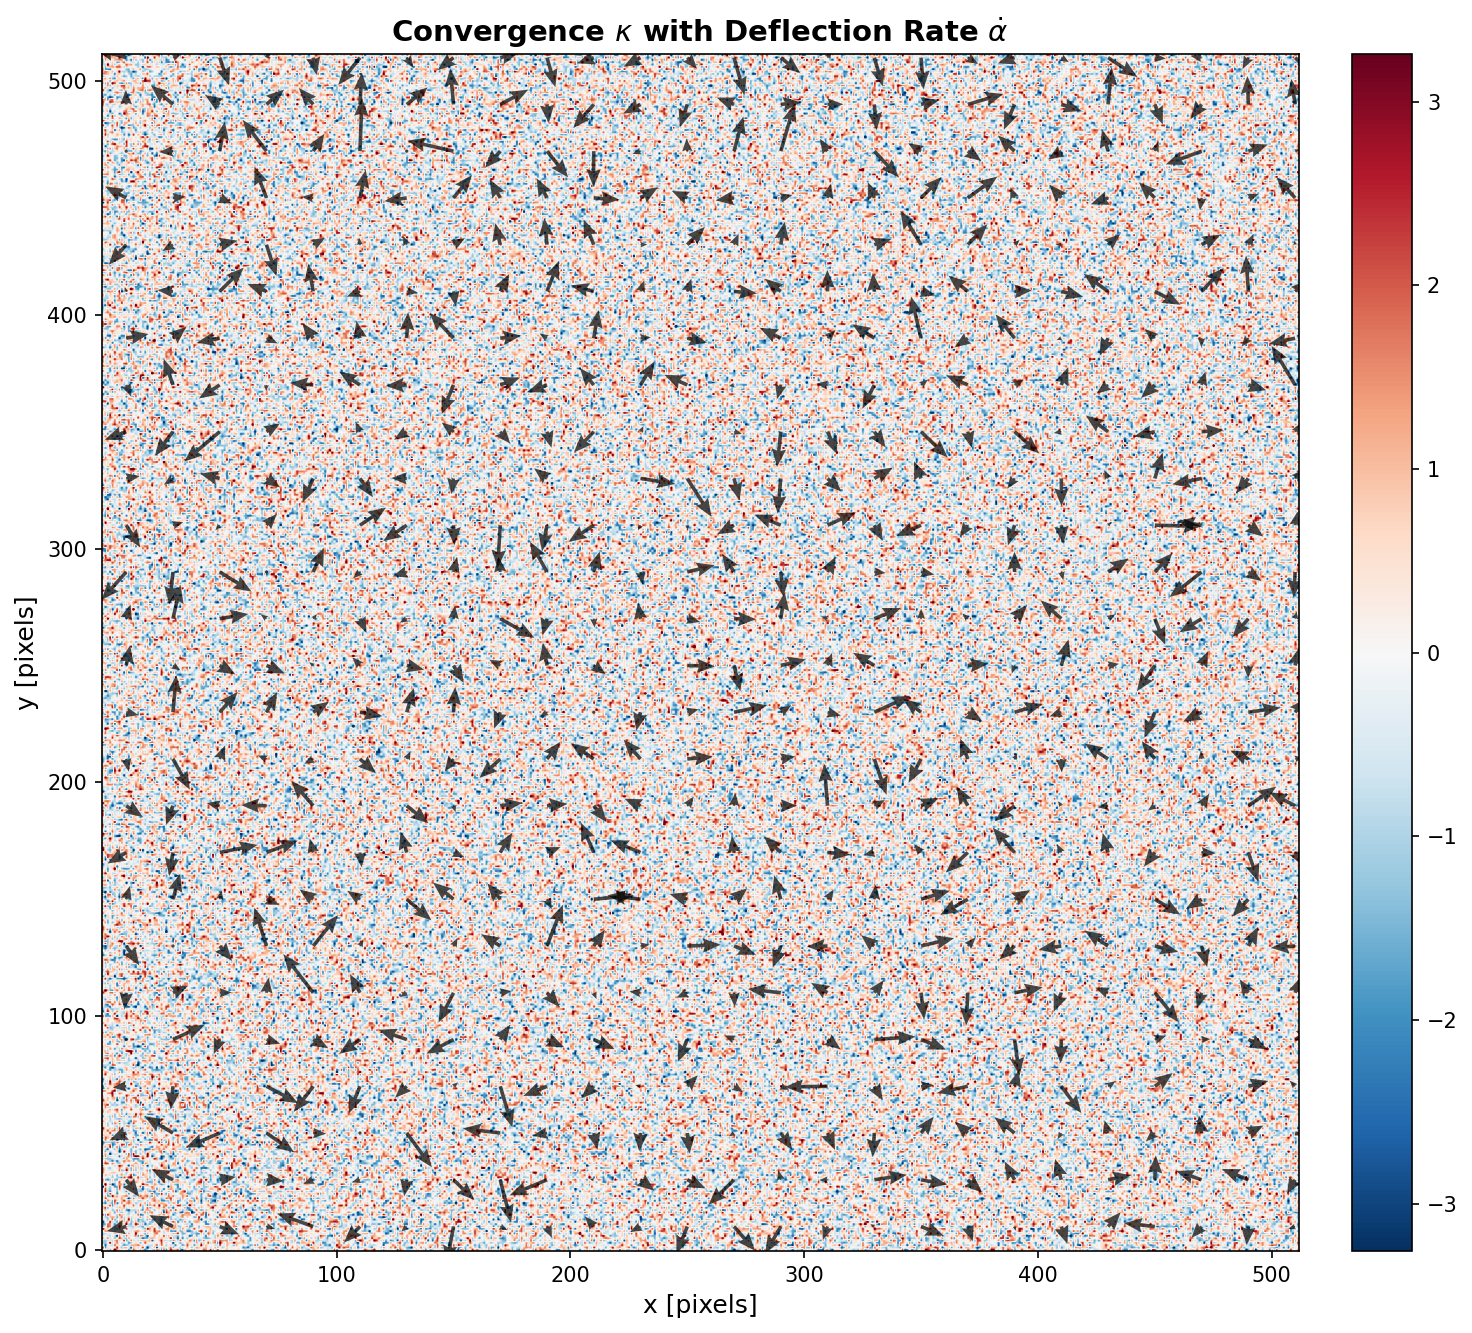
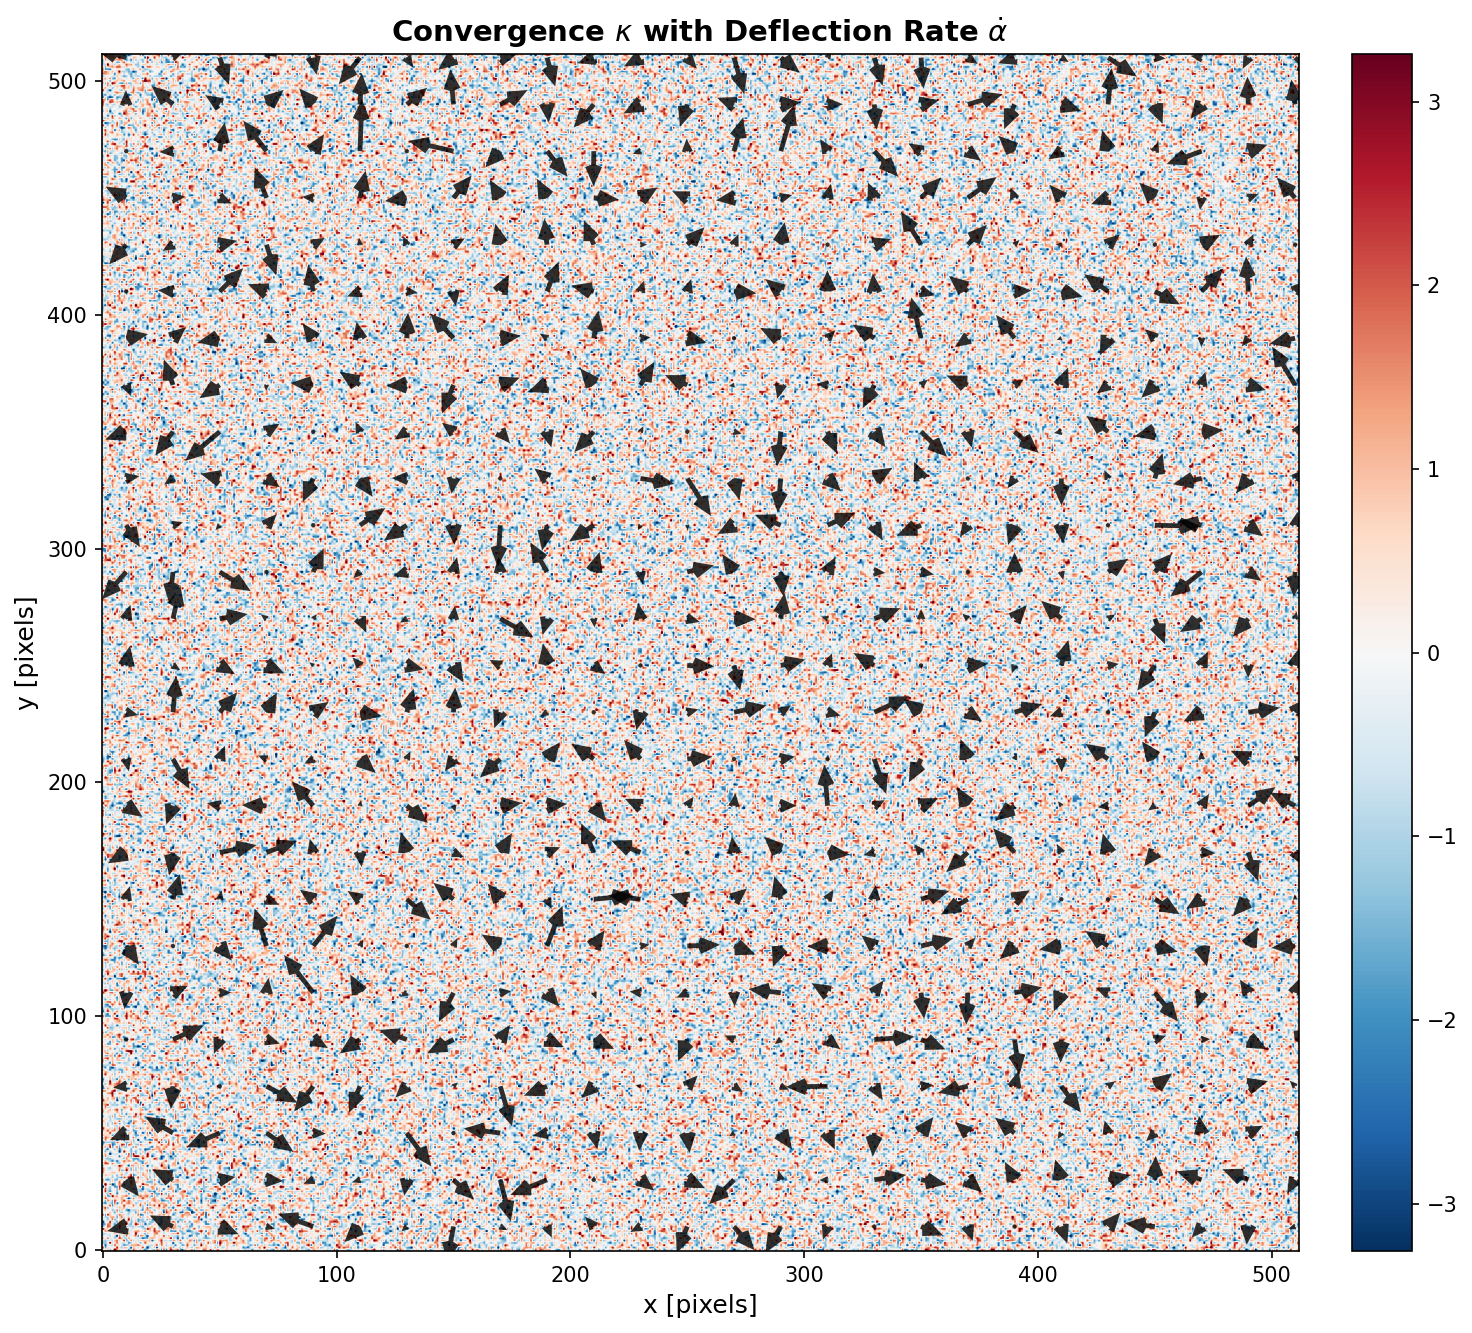
Improve vector field visualization with zoom
- Add zoomed view centered on strongest κ feature
- Better arrow scaling and spacing
- 128×128 pixel zoom region with denser arrows

diff --git a/plot_field_with_vectors.py b/plot_field_with_vectors.py
@@ -8,12 +8,27 @@ Usage:
 
 import numpy as np
 import matplotlib.pyplot as plt
+from scipy.ndimage import gaussian_filter
 import sys
 from pathlib import Path
 
 
+def find_peak_region(field, size=128):
+    """Find center of strongest peak for zoom."""
+    # Smooth to find large-scale peak
+    smoothed = gaussian_filter(np.abs(field), sigma=size//4)
+    iy, ix = np.unravel_index(np.argmax(smoothed), smoothed.shape)
+    # Keep within bounds
+    half = size // 2
+    ny, nx = field.shape
+    ix = np.clip(ix, half, nx - half)
+    iy = np.clip(iy, half, ny - half)
+    return ix, iy
+
+
 def plot_field_with_vectors(scalar_field, vx, vy, title, output_path,
-                            cmap='RdBu_r', arrow_step=25, dpi=150):
+                            cmap='RdBu_r', arrow_step=25, dpi=150,
+                            zoom_center=None, zoom_size=None):
     """
     Plot a scalar field with vector arrows overlaid.
 
@@ -33,8 +48,21 @@ def plot_field_with_vectors(scalar_field, vx, vy, title, output_path,
         Subsample arrows every N pixels
     dpi : int
         Output resolution
+    zoom_center : tuple
+        (x, y) center for zoom, or None for full field
+    zoom_size : int
+        Size of zoom region in pixels
     """
     fig, ax = plt.subplots(figsize=(10, 9))
+
+    # Extract zoom region if specified
+    if zoom_center is not None and zoom_size is not None:
+        cx, cy = zoom_center
+        half = zoom_size // 2
+        slc = (slice(cy - half, cy + half), slice(cx - half, cx + half))
+        scalar_field = scalar_field[slc]
+        vx = vx[slc]
+        vy = vy[slc]
 
     # Plot scalar field
     vmax = np.percentile(np.abs(scalar_field), 99)
@@ -51,14 +79,14 @@ def plot_field_with_vectors(scalar_field, vx, vy, title, output_path,
     vx_sub = vx[arrow_step//2::arrow_step, arrow_step//2::arrow_step]
     vy_sub = vy[arrow_step//2::arrow_step, arrow_step//2::arrow_step]
 
-    # Normalize arrows for visibility
+    # Normalize arrows for visibility (scale by arrow spacing)
     mag = np.sqrt(vx_sub**2 + vy_sub**2)
-    mag_max = np.percentile(mag, 95)
-    scale = arrow_step * 0.8 / mag_max if mag_max > 0 else 1
+    mag_max = np.percentile(mag, 90)
+    arrow_scale = arrow_step * 0.7 / mag_max if mag_max > 0 else 1
 
-    ax.quiver(X, Y, vx_sub * scale, vy_sub * scale,
-              color='black', alpha=0.7, scale=1, scale_units='xy',
-              width=0.003, headwidth=4, headlength=5)
+    ax.quiver(X, Y, vx_sub * arrow_scale, vy_sub * arrow_scale,
+              color='black', alpha=0.8, scale=1, scale_units='xy',
+              width=0.004, headwidth=3.5, headlength=4)
 
     ax.set_title(title, fontsize=14, fontweight='bold')
     ax.set_xlabel('x [pixels]', fontsize=12)
@@ -88,7 +116,13 @@ def main():
     print(f"  κ shape: {kappa.shape}, range: [{kappa.min():.2e}, {kappa.max():.2e}]")
     print(f"  α̇ magnitude range: [{np.sqrt(vx**2+vy**2).min():.2e}, {np.sqrt(vx**2+vy**2).max():.2e}]")
 
-    # Plot ψ with α̇ arrows
+    # Find interesting region (near strong κ peak)
+    zoom_size = 128
+    cx, cy = find_peak_region(kappa, size=zoom_size)
+    print(f"\n  Zoom center: ({cx}, {cy}) - near strongest κ feature")
+
+    # Full field views
+    print("\nGenerating full-field plots...")
     plot_field_with_vectors(
         psi, vx, vy,
         title=r'Lensing Potential $\psi$ with Deflection Rate $\dot{\alpha}$',
@@ -97,13 +131,34 @@ def main():
         arrow_step=20
     )
 
-    # Plot κ with α̇ arrows
     plot_field_with_vectors(
         kappa, vx, vy,
         title=r'Convergence $\kappa$ with Deflection Rate $\dot{\alpha}$',
         output_path=output_dir / 'kappa_with_alpha_dot.png',
         cmap='RdBu_r',
         arrow_step=20
+    )
+
+    # Zoomed views - arrows should clearly point toward κ > 0
+    print("\nGenerating zoomed plots...")
+    plot_field_with_vectors(
+        psi.copy(), vx.copy(), vy.copy(),
+        title=r'$\psi$ with $\dot{\alpha}$ (zoomed)',
+        output_path=output_dir / 'psi_with_alpha_dot_zoom.png',
+        cmap='RdBu_r',
+        arrow_step=8,
+        zoom_center=(cx, cy),
+        zoom_size=zoom_size
+    )
+
+    plot_field_with_vectors(
+        kappa.copy(), vx.copy(), vy.copy(),
+        title=r'$\kappa$ with $\dot{\alpha}$ (zoomed)',
+        output_path=output_dir / 'kappa_with_alpha_dot_zoom.png',
+        cmap='RdBu_r',
+        arrow_step=8,
+        zoom_center=(cx, cy),
+        zoom_size=zoom_size
     )
 
     print("\nDone!")
